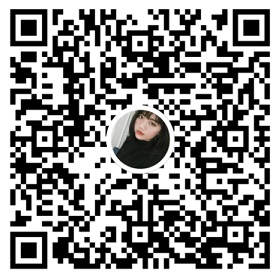
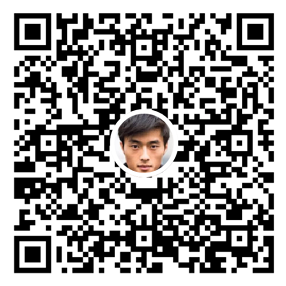
update new QRCode

diff --git a/docs/index.html b/docs/index.html
@@ -50,7 +50,7 @@
 <div class="col-lg-12 text-center">
 <h2 class="section-heading">Mã Nạp</h2>
 
-<h2 class="section-heading"><img alt="" src="img/GeneralQRCode.jpg?v=33325" /></h2>
+<h2 class="section-heading"><img alt="" src="img/GeneralQRCode.jpg?a=39925" /></h2>
 </div>
 </div>
 <!-- tinhnang Section -->
